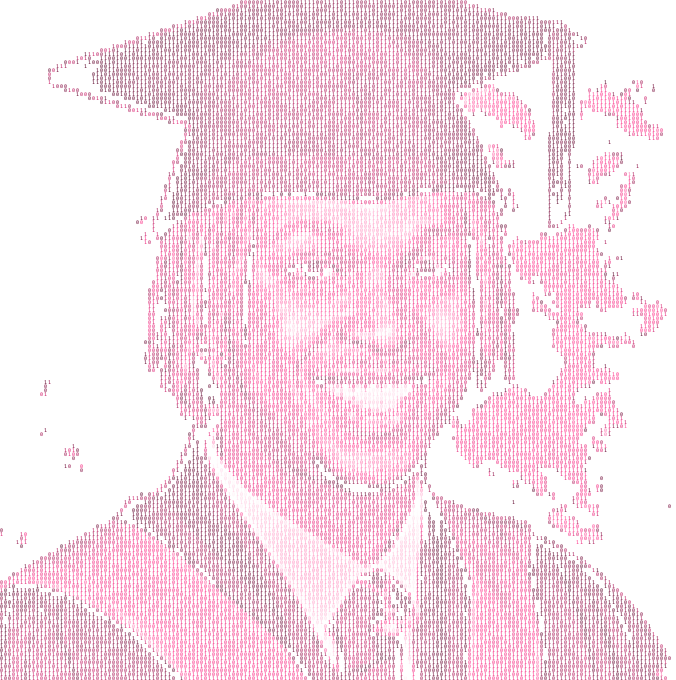
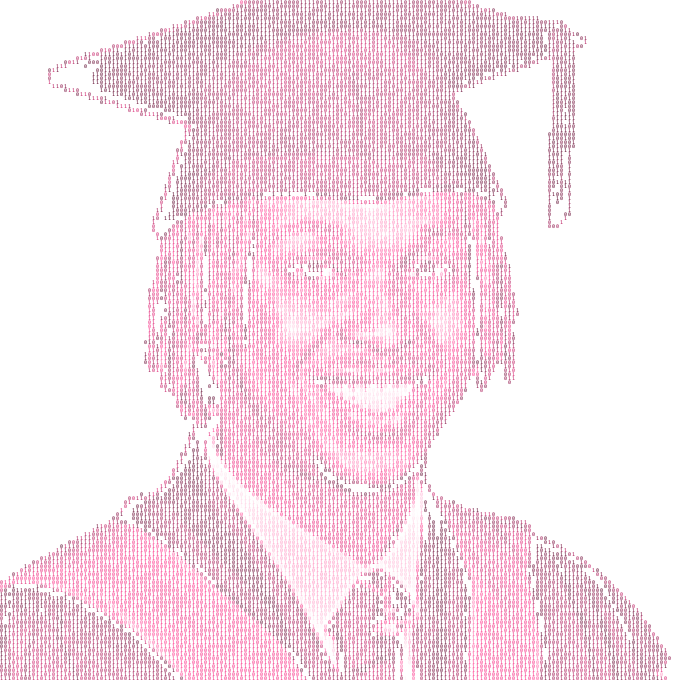
Hero: isolate silhouette, purpose-built mobile layout
- map now keeps only the single connected silhouette containing the face, so the
  leftover backdrop haze beside the tassel no longer renders as pink characters
- mobile: portrait moves to a centred top band and the type sits underneath it
  (was overlapping); hero bottom-aligned, 5px cells, lighter flicker/sweep radius
- cell size and layout now derive from viewport width rather than pointer type

diff --git a/index.html b/index.html
@@ -223,9 +223,13 @@
     nav{padding:11px 18px}
     .brand small{display:none}
     .getbtn{padding:8px 13px;font-size:.66rem}
-    .hero{min-height:600px}
-    .hero .wrap{padding-top:72px}
-    .hero h1{font-size:clamp(2.9rem,15.5vw,5rem);text-shadow:0 2px 26px rgba(0,0,0,.6)}
+    /* portrait occupies the top of the hero; the type sits underneath it, never over it */
+    .hero{min-height:640px;align-items:flex-end}
+    .hero .wrap{padding-top:0;padding-bottom:clamp(54px,11vh,104px)}
+    .hero h1{font-size:clamp(2.6rem,13.5vw,4.4rem);line-height:.92;text-shadow:0 2px 26px rgba(0,0,0,.72)}
+    .hero .role{margin-bottom:9px}
+    .hero .role .ey{text-shadow:0 2px 18px rgba(0,0,0,.8)}
+    .scrollmouse{display:none}
     .flow{margin:2px 0 18px}
     .flow .t{font-size:.82rem}
     .hmeta{font-size:.65rem;gap:7px 14px}
@@ -628,7 +632,7 @@ document.getElementById("msg").addEventListener("submit",function(e){
    resolve. A static base layer is rendered once; per frame we only repaint the flickering
    cells and the cells under the cursor, which keeps 47k characters at 60fps. */
 var cv=document.getElementById("bin"),x=cv.getContext("2d"),W,H,DPR,cols,rows,mx=-9999,my=-9999;
-var cell=coarse?9:4, FONT="700 "+(cell+1)+"px 'SF Mono',ui-monospace,Menlo,monospace";
+var cell=4, FONT="", narrow=false;
 var face=document.getElementById("face"),faceOK=false,flum=[],chars=[];
 var oc=document.createElement("canvas"),ox=oc.getContext("2d",{willReadFrequently:true});
 var base=document.createElement("canvas"),bxc=base.getContext("2d");
@@ -638,10 +642,18 @@ if(face.complete&&face.naturalWidth){faceOK=true;}
 function sampleFace(){
   if(!faceOK||!cols){flum=[];return;}
   oc.width=cols;oc.height=rows;ox.clearRect(0,0,cols,rows);
+  var iw=face.naturalWidth,ih=face.naturalHeight,scale,dw,dh,dx,dy;
   // CONTAIN (not cover) so the mortarboard is never cropped
-  var startC=Math.floor(cols*0.38),rw=cols-startC,rh=rows,iw=face.naturalWidth,ih=face.naturalHeight;
-  var scale=Math.min(rw/iw,rh/ih)*0.99,dw=iw*scale,dh=ih*scale;
-  var dx=startC+(rw-dw)*0.62,dy=(rh-dh)/2;
+  if(narrow){
+    // phones: portrait sits in the upper band, centred; the type lives underneath it
+    var rwN=cols,rhN=rows*0.56;
+    scale=Math.min(rwN/iw,rhN/ih)*0.98; dw=iw*scale; dh=ih*scale;
+    dx=(cols-dw)/2; dy=rows*0.015;
+  }else{
+    var startC=Math.floor(cols*0.38),rw=cols-startC,rh=rows;
+    scale=Math.min(rw/iw,rh/ih)*0.99; dw=iw*scale; dh=ih*scale;
+    dx=startC+(rw-dw)*0.62; dy=(rh-dh)/2;
+  }
   ox.drawImage(face,dx,dy,dw,dh);
   var d;try{d=ox.getImageData(0,0,cols,rows).data;}catch(e){return;}
   flum=new Float32Array(cols*rows);
@@ -675,6 +687,9 @@ function buildBase(){
 }
 function size(){
   DPR=Math.min(devicePixelRatio||1,2);W=cv.clientWidth;H=cv.clientHeight;
+  narrow=W<820;
+  cell=narrow?5:4;                       // phones keep a readable character size
+  FONT="700 "+(cell+1)+"px 'SF Mono',ui-monospace,Menlo,monospace";
   cv.width=W*DPR;cv.height=H*DPR;x.setTransform(DPR,0,0,DPR,0,0);
   cols=Math.ceil(W/cell)+1;rows=Math.ceil(H/cell)+1;
   chars=new Array(cols*rows);
@@ -685,10 +700,15 @@ var hero=document.getElementById("top");
 hero.addEventListener("mousemove",function(e){var r=cv.getBoundingClientRect();mx=e.clientX-r.left;my=e.clientY-r.top;});
 hero.addEventListener("mouseleave",function(){mx=my=-9999;});
 addEventListener("resize",function(){clearTimeout(window.__hzr);window.__hzr=setTimeout(size,150);});
-var t=0,rafH=null,FLICK=coarse?120:420,RAD=coarse?110:120;
+var t=0,rafH=null;
 function frame(){
+  var FLICK=narrow?150:420, RAD=narrow?90:120;
   t+=0.016;
-  if(coarse){ mx=W*(0.70+0.15*Math.sin(t*0.5)); my=H*(0.46+0.20*Math.cos(t*0.42)); }
+  // no cursor on touch: sweep a highlight across the portrait so it still feels alive
+  if(coarse){
+    if(narrow){ mx=W*(0.50+0.26*Math.sin(t*0.5)); my=H*(0.27+0.13*Math.cos(t*0.42)); }
+    else      { mx=W*(0.70+0.15*Math.sin(t*0.5)); my=H*(0.46+0.20*Math.cos(t*0.42)); }
+  }
   x.clearRect(0,0,W,H);
   x.drawImage(base,0,0,W,H);
   x.font=FONT;x.textAlign="center";x.textBaseline="middle";
